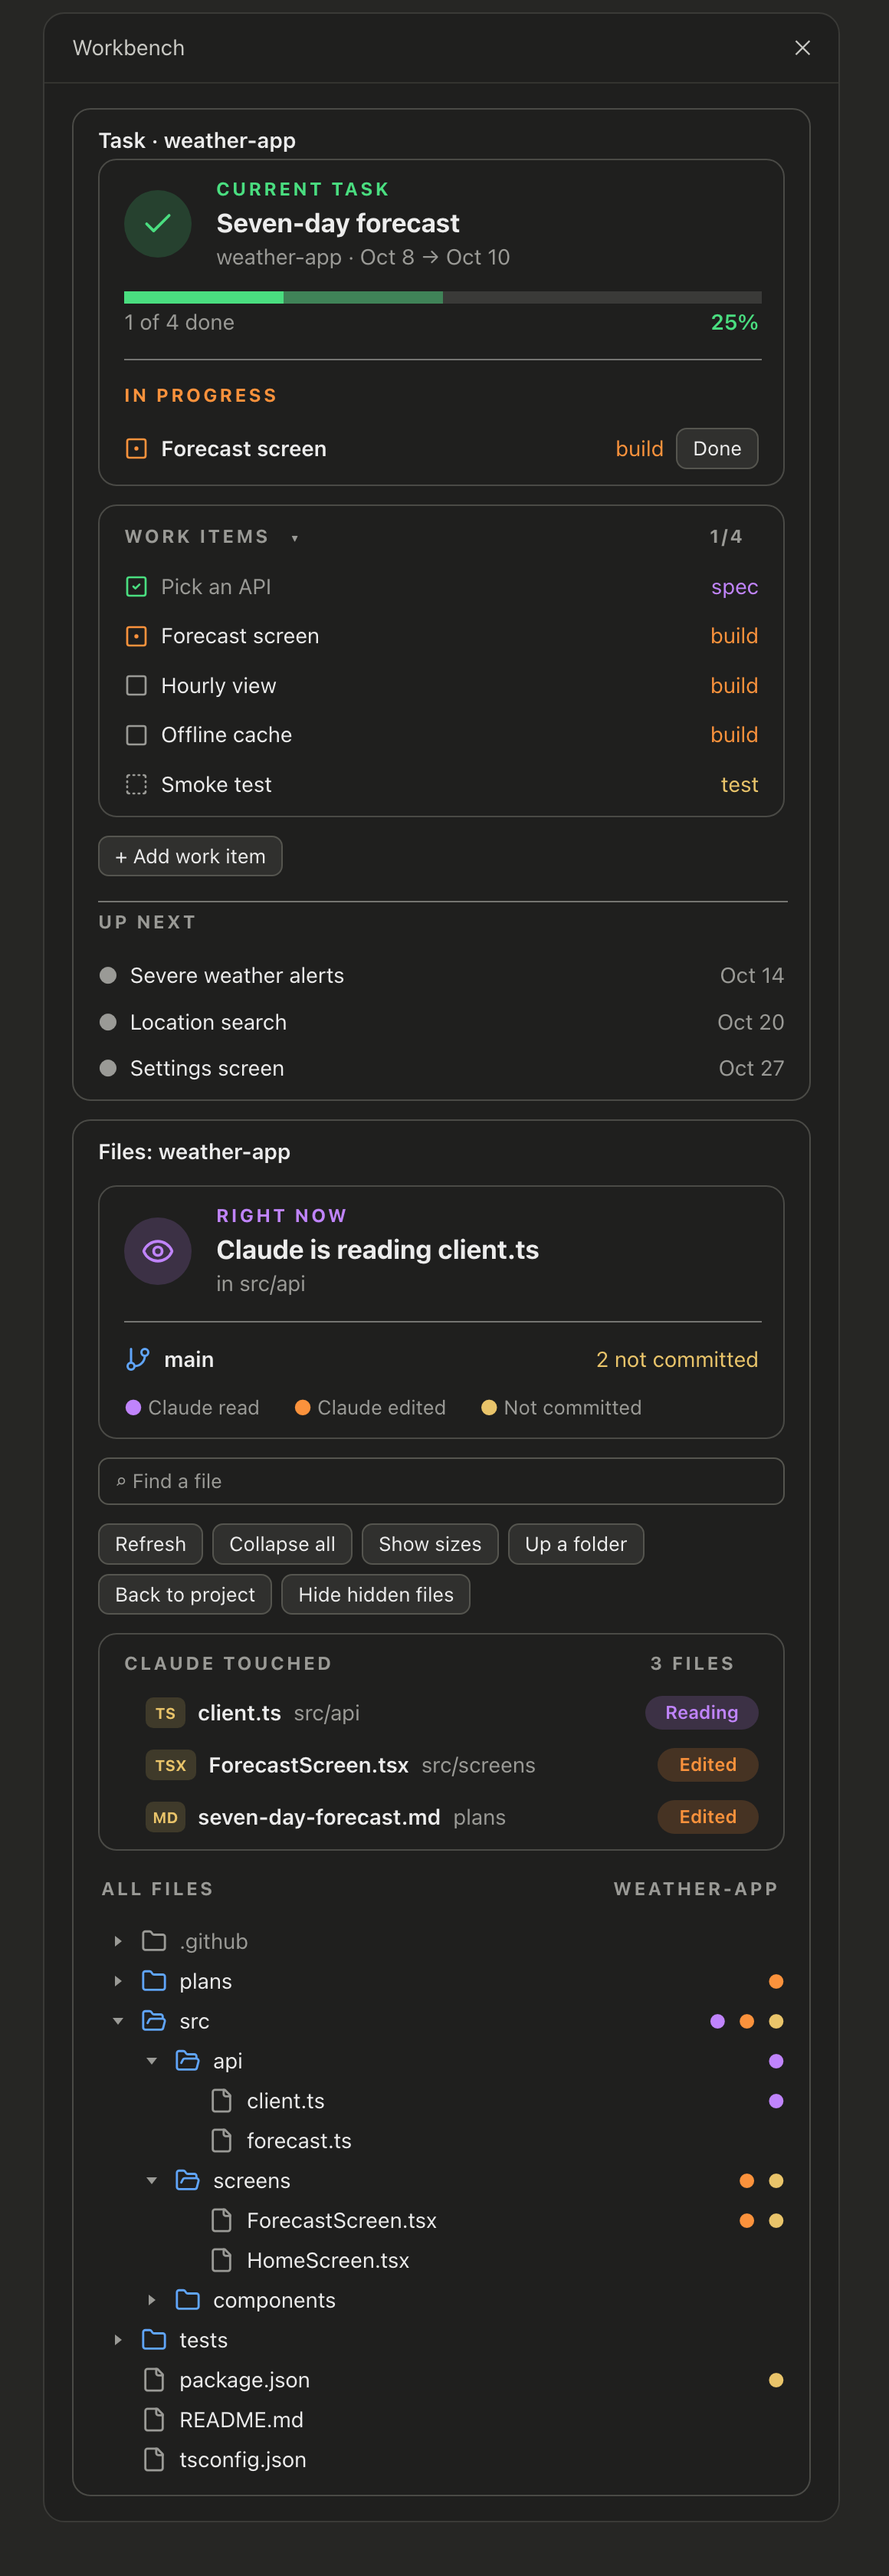
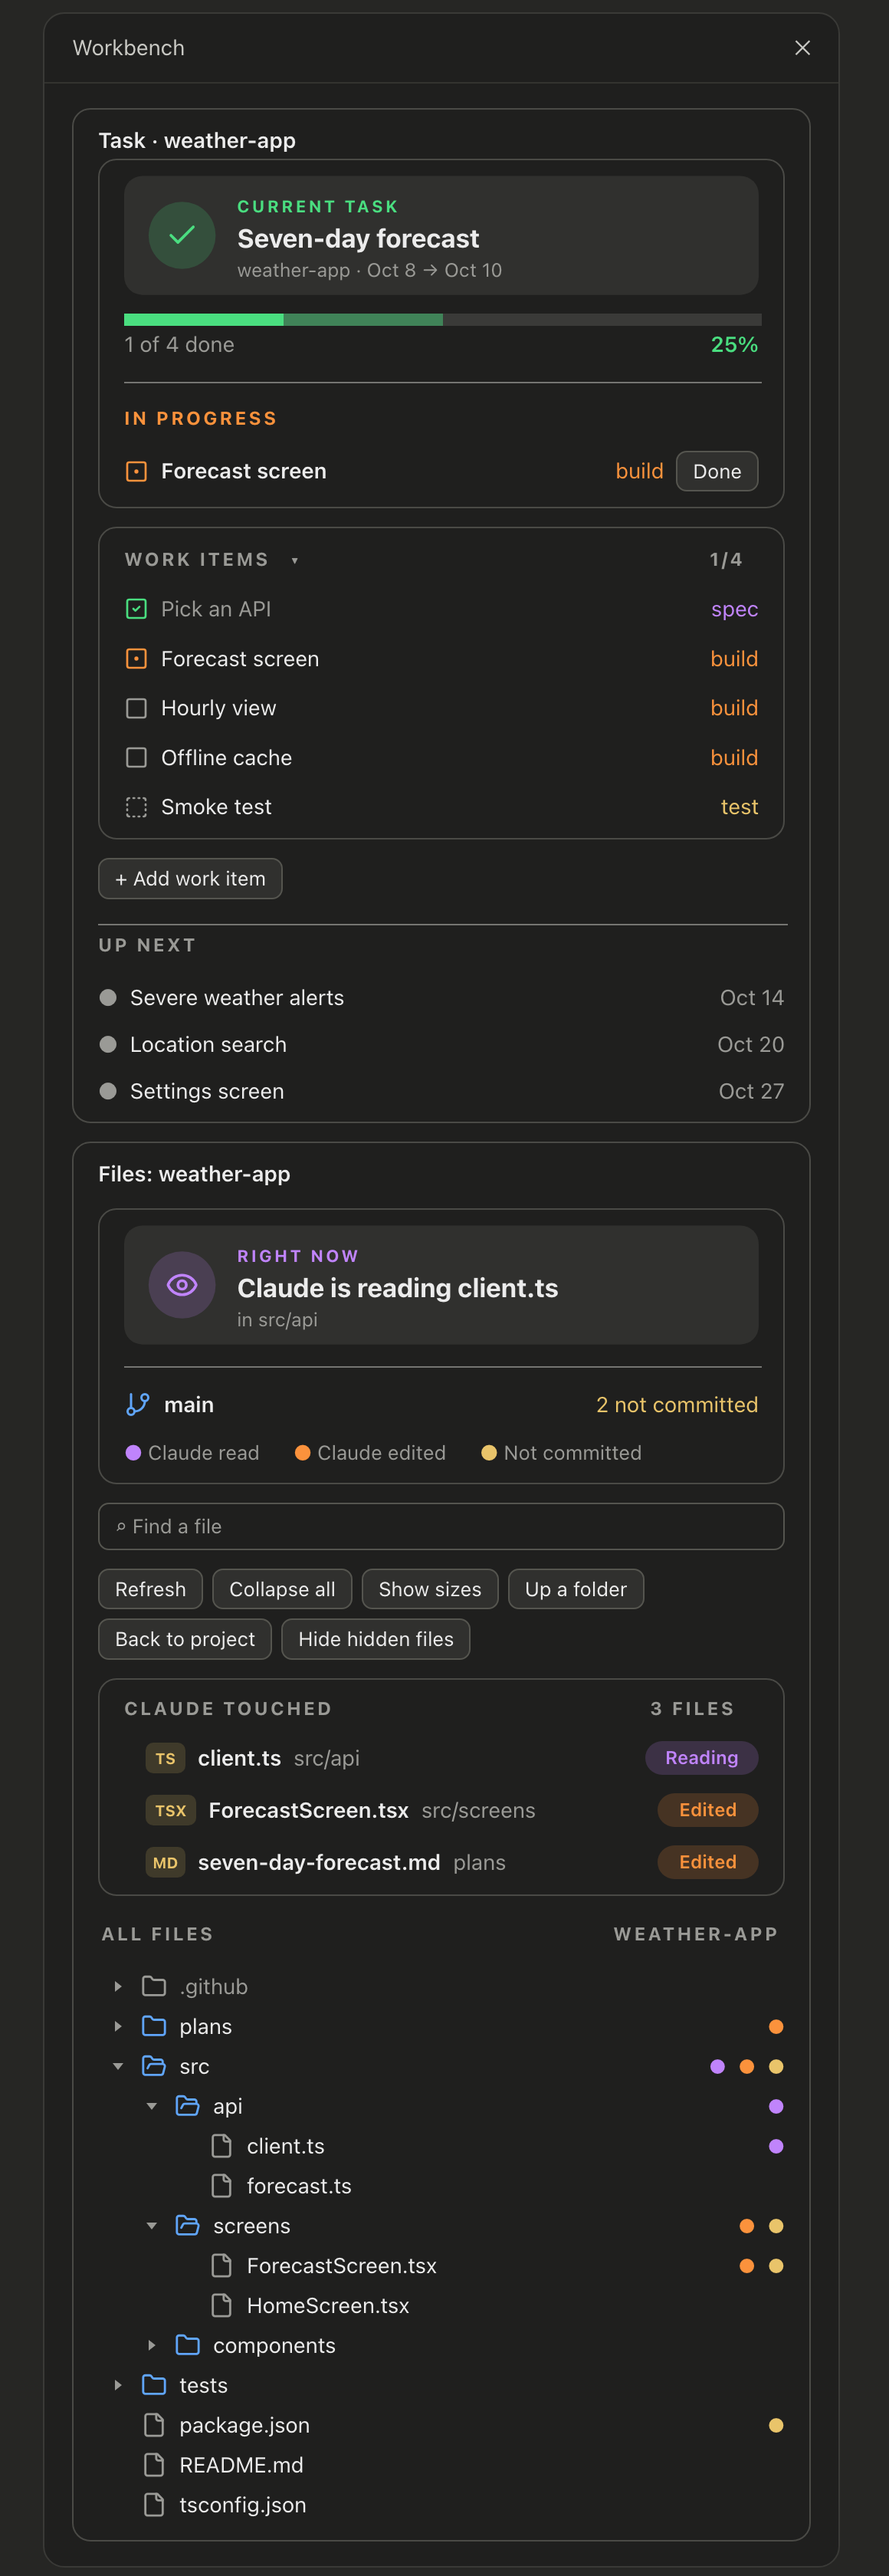
Hero cards on a tinted panel in the band's light and dark colors; mockup redrawn

diff --git a/hooks/register.tsx b/hooks/register.tsx
@@ -12,7 +12,7 @@ import {
   inkOf, paletteOf, parentOf, parseStatus, relDir, rowsOf, search, STAGE_SLOT, THEME_KEY,
 } from './bench'
 import type { SkinCustom, SkinPrefs, Slot } from './bench'
-import { caps, disc, fileTag, headline, icon, pill, progress, rule, triangle } from './icons'
+import { caps, fileTag, hero, icon, pill, progress, rule, triangle } from './icons'
 import type { IconName, Ink } from './icons'
 
 const TOOL = 'work_items'
@@ -685,16 +685,17 @@ export const register: Register = (on, options) => {
       }
 
       // Current task: the check disc, the title, the bar; then what is in progress
-      const head = Svg ? headline(cur.title, ink('fg'), room(2) - 44 - 16) : undefined
       const curKids: unknown[] = [
-        <Box key="ct-top" flexDirection="row" columnGap={2} alignItems="center">
-          {Svg ? <Svg key="ct-disc" width={44} height={44} alt="Current task" source={disc('check', ink('ok'))} /> : <Text key="ct-g" {...c('ok')}>✓</Text>}
-          <Box flexDirection="column" flexGrow={1} flexShrink={1} minWidth={0}>
+        // On the desktop the top is one tinted panel in the band's colors, readable in light and dark
+        Svg ? (
+          <Svg key="ct-top" width={room(2)} height={78} alt={`Current task: ${cur.title}`} source={hero({ icon: 'check', accent: ink('ok'), label: 'Current task', title: cur.title, sub: `${cur.short} · ${when}`, w: room(2) })} />
+        ) : (
+          <Box key="ct-top" flexDirection="column">
             {capsText('ct-cap', 'Current task', 'ok')}
-            {Svg && head ? <Svg key="ct-head" width={head.w} height={head.h} alt={cur.title} source={head.source} /> : <Text bold wrap="wrap" {...c('fg')}>{cur.title}</Text>}
+            <Text bold wrap="wrap" {...c('fg')}>{cur.title}</Text>
             <Text wrap="truncate-end" {...c('muted')}>{`${cur.short} · ${when}`}</Text>
           </Box>
-        </Box>,
+        ),
         Svg ? (
           <Box key="ct-bar" marginTop={1} width="100%"><Svg height={8} alt={`${pct}% done`} source={progress(done, doing.length, total, ink('ok'), mutedInk)} /></Box>
         ) : (
@@ -805,18 +806,20 @@ export const register: Register = (on, options) => {
       : { icon: 'coffee' as const, slot: 'muted' as const, verb: '', glyph: '◌' }
     const stateInk = ink(state.slot)
     const headText = now ? `Claude is ${state.verb} ${baseOf(now.path)}` : 'Claude is idle'
-    const textW = room(2) - 44 - 16
-    const head = Svg ? headline(headText, ink('fg'), textW) : undefined
     const sub = now ? `in ${relDir(now.path, root)}` : last ? `last ${last.kind === 'read' ? 'read' : 'edited'} ${baseOf(last.path)}` : 'Waiting for the next file'
     const nowKids: unknown[] = [
-      <Box key="rn-top" flexDirection="row" columnGap={2} alignItems="center">
-        {Svg ? <Svg key="rn-disc" width={44} height={44} alt={headText} source={disc(state.icon, stateInk)} /> : <Text key="rn-g" {...c(state.slot)}>{state.glyph}</Text>}
-        <Box flexDirection="column" flexGrow={1} flexShrink={1} minWidth={0}>
-          {capsText('rn-cap', 'Right now', state.slot)}
-          {Svg && head ? <Svg key="rn-head" width={head.w} height={head.h} alt={headText} source={head.source} /> : <Text bold wrap="truncate-end" {...c('fg')}>{headText}</Text>}
-          <Text wrap="truncate-end" {...c('muted')}>{sub}</Text>
+      Svg ? (
+        <Svg key="rn-top" width={room(2)} height={78} alt={`${headText}, ${sub}`} source={hero({ icon: state.icon, accent: stateInk, label: 'Right now', title: headText, sub, w: room(2) })} />
+      ) : (
+        <Box key="rn-top" flexDirection="row" columnGap={1}>
+          <Text {...c(state.slot)}>{state.glyph}</Text>
+          <Box flexDirection="column" flexGrow={1} flexShrink={1} minWidth={0}>
+            {capsText('rn-cap', 'Right now', state.slot)}
+            <Text bold wrap="truncate-end" {...c('fg')}>{headText}</Text>
+            <Text wrap="truncate-end" {...c('muted')}>{sub}</Text>
+          </Box>
         </Box>
-      </Box>,
+      ),
       divider('rn-hr'),
       <Box key="rn-git" flexDirection="row" justifyContent="space-between" alignItems="center" width="100%">
         <Box flexDirection="row" columnGap={1} alignItems="center">

diff --git a/hooks/icons.ts b/hooks/icons.ts
@@ -140,3 +140,27 @@ export const progress = (done: number, doing: number, total: number, color: Ink,
     `<rect width="${a}" height="8" style="fill:${c}"/></svg>`
   )
 }
+
+/** The top of a hero card on a tinted panel, in the band's colors: icon disc, caps label, title, a line under it. */
+export function hero(o: { icon: IconName; accent: Ink; label: string; title: string; sub: string; w: number }) {
+  const [css, c] = paint(o.accent, 'acc')
+  const H = 78
+  const x = 74
+  const room = Math.max(60, o.w - x - 14)
+  const cut = (s: string, size: number, bold: boolean) => {
+    const per = size * (bold ? 0.58 : 0.52)
+    const fit = Math.max(4, Math.floor(room / per))
+    return s.length > fit ? s.slice(0, fit - 1) + '…' : s
+  }
+  const label = o.label.toUpperCase()
+  return (
+    `<svg xmlns="http://www.w3.org/2000/svg" width="${o.w}" height="${H}" viewBox="0 0 ${o.w} ${H}">${css}` +
+    `<style>.bg{fill:#f0eee6}.t{fill:#1f1f1f}.m{fill:#5f5f5c}@media (prefers-color-scheme: dark){.bg{fill:#30302e}.t{fill:#ececec}.m{fill:#9a9a96}}</style>` +
+    `<rect class="bg" width="${o.w}" height="${H}" rx="12"/>` +
+    `<circle cx="38" cy="${H / 2}" r="22" style="fill:${c}" fill-opacity="0.18"/>` +
+    `<g transform="translate(27 ${H / 2 - 11}) scale(${22 / 24})" fill="none" style="stroke:${c}" stroke-width="2" stroke-linecap="round" stroke-linejoin="round">${PATHS[o.icon]}</g>` +
+    `<text x="${x}" y="24" font-size="11" font-weight="700" letter-spacing="1.6" style="fill:${c}" ${FONT}>${esc(label)}</text>` +
+    `<text class="t" x="${x}" y="47" font-size="17" font-weight="700" ${FONT}>${esc(cut(o.title, 17, true))}</text>` +
+    `<text class="m" x="${x}" y="66" font-size="12.5" ${FONT}>${esc(cut(o.sub, 12.5, false))}</text></svg>`
+  )
+}

diff --git a/tests/tasks.test.tsx b/tests/tasks.test.tsx
@@ -109,7 +109,7 @@ test('the band and the Workbench draw the task from the plan files', async ($, o
   await run($, '')
   for (const surface of ['terminal', 'desktop'] as const) {
     const ui = await $.ui.mount({ plugin: 'workbench', surface, component: 'Pane', requestId: 'workbench', props: {} } as never)
-    if (surface === 'desktop') expect((await svgs(ui as never, /^Seven-day forecast$/)).length).toBe(1)
+    if (surface === 'desktop') expect((await svgs(ui as never, /^Current task: Seven-day forecast$/)).length).toBe(1)
     else expect(await ui.find({ text: /Seven-day forecast/ })).toBeDefined()
     expect(await ui.find({ text: /Forecast screen/ })).toBeDefined()
     expect(await ui.find({ text: /Offline cache/ })).toBeDefined()
